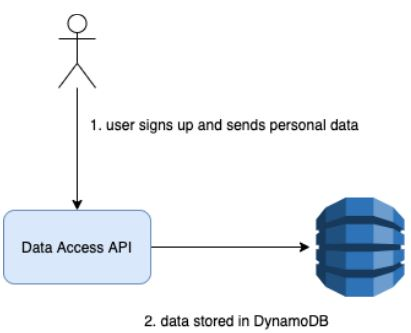
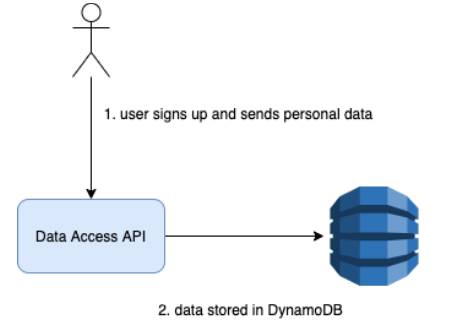
add image responses

Changed region(s): [[0.0, 0.0, 0.8759, 0.8642], [0.3504, 0.5556, 0.9927, 0.8951], [0.3504, 0.9259, 0.8175, 0.9877]]

diff --git a/index.html b/index.html
@@ -64,8 +64,9 @@
                 issues and promote best practices for protecting personal information of Canadians through a set of
                 application programming interfaces, and will produce a proof of concept prototype of the proposes
                 platform.</p>
-            
-            <p><b>Principal investigator: </b><a href="https://faculty.ontariotechu.ca/mahmoud/"> Dr. Qusay H. Mahmoud</a></p>
+
+            <p><b>Principal investigator: </b><a href="https://faculty.ontariotechu.ca/mahmoud/"> Dr. Qusay H.
+                    Mahmoud</a></p>
 
             <div class="w3-container" id="img">
                 <p>Project sponsored by:</p>
@@ -125,7 +126,7 @@
                         </div>
                     </div>
                 </div>
-                
+
                 <div class="w3-col m4 w3-margin-bottom">
                     <div class="w3-light-grey">
                         <div class="w3-container">
@@ -135,7 +136,7 @@
                         </div>
                     </div>
                 </div>
-                
+
                 <div class="w3-col m4 w3-margin-bottom">
                     <div class="w3-light-grey">
                         <div class="w3-container">
@@ -145,7 +146,7 @@
                         </div>
                     </div>
                 </div>
-                
+
             </div>
 
         </div>
@@ -165,9 +166,11 @@
                 stored <a href="#ref1">[1]</a>.
                 Blockchain is a technology that provides a reliable and secure ledger of transactions. This
                 consists of blocks chained together, with each block containing some data, the timestamp as
-                well as a hash of the previous block <a href="#ref2">[2]</a> . This concept was first devised by myterious Satoshi
+                well as a hash of the previous block <a href="#ref2">[2]</a> . This concept was first devised by
+                myterious Satoshi
                 Nakamota, the
-                creator of Bitcoin. To this end, the goal of this project is to develop a blockchain-based solution to enable the monitoring of
+                creator of Bitcoin. To this end, the goal of this project is to develop a blockchain-based solution to
+                enable the monitoring of
                 access to personal data.</p>
             <br>
             <h3>Proposed Solution</h3>
@@ -204,7 +207,7 @@
                 architecture of this solution.
             </p>
             <div class="w3-container img">
-                <img id="figure1" src="./figure1.PNG"></img>
+                <img id="figure1" src="./figure1.JPG"></img>
                 <label for="figure1">Figure 1: Overview of the architecture</label>
             </div>
             <br>
@@ -279,17 +282,20 @@
             <p></a>
             </p>-->
             <p></p>
-            <a href="https://www.mdpi.com/2227-9032/9/2/137">A Systematic Review of Blockchain for Consent Management</a>
+            <a href="https://www.mdpi.com/2227-9032/9/2/137">A Systematic Review of Blockchain for Consent
+                Management</a>
 
             <p></p>
-<b>Related publications</b>
-<p></p>
-<a href="https://ieeexplore.ieee.org/document/9283203">Design and Implementation of a Blockchain-Based E-Health Consent Management Framework</a>
-<br></br>
-<a href="https://www.mdpi.com/2227-9032/7/2/56">Blockchain Technology in Healthcare: A Systematic Review</a>
-<br><br>
-<a href="https://arxiv.org/ftp/arxiv/papers/1912/1912.09882.pdf">Design and Implementation of a Blockchain-based
-    Consent Management System</a>
+            <b>Related publications</b>
+            <p></p>
+            <a href="https://ieeexplore.ieee.org/document/9283203">Design and Implementation of a Blockchain-Based
+                E-Health Consent Management Framework</a>
+            <br></br>
+            <a href="https://www.mdpi.com/2227-9032/7/2/56">Blockchain Technology in Healthcare: A Systematic Review</a>
+            <br><br>
+            <a href="https://arxiv.org/ftp/arxiv/papers/1912/1912.09882.pdf">Design and Implementation of a
+                Blockchain-based
+                Consent Management System</a>
         </div>
 
 
@@ -324,7 +330,6 @@
         }
 
         function w3_openLink(id) {
-            console.log(id)
             document.getElementById("home").style.display = "none"
             document.getElementById("demo").style.display = "none"
             document.getElementById("papers").style.display = "none"
@@ -355,9 +360,8 @@
         function onStart() {
             if (window.innerWidth < 1000) {
                 w3_close();
-                console.log(window.innerWidth)
             }
-            w3_openLink("home")
+            w3_openLink("design")
         }
     </script>
 

diff --git a/css.css b/css.css
@@ -34,9 +34,12 @@ body {
     width:100% !important;
     height: auto !important;
 }
-.img{
-    width:85%;
+.img img{
+    max-width:100% !important;
     height: auto !important;
+}
+.img{
+
     display: block;
     margin-left: auto;
     margin-right: auto;
